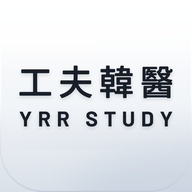
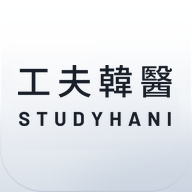
세로 로고를 工夫韓醫 STUDYHANI 로 : 로그인 화면 로고, 앱 아이콘, 카톡 미리보기 이미지 (가로 로고는 YRR STUDY 그대로)
Claude-Session: https://claude.ai/code/session_015uaKLahaYjwSoCrRpGm8MR

Changed region(s): [[0.2812, 0.3125, 0.9062, 0.5312], [0.0938, 0.5625, 0.9062, 0.6875], [0.0938, 0.3438, 0.2812, 0.5]]

diff --git a/js/views/auth.js b/js/views/auth.js
@@ -46,7 +46,7 @@ export function loginView() {
   watchFilled(btn, [email, pw]);
 
   const card = h('form', { class: 'auth-card', novalidate: true, onsubmit: submit },
-    h('img', { class: 'brand', src: 'icons/logo.png', alt: '工夫韓醫 YRR STUDY' }),
+    h('img', { class: 'brand', src: 'icons/logo.png', alt: '工夫韓醫 STUDYHANI' }),
     email,
     pw,
     err,
@@ -104,7 +104,7 @@ function signupCard(back) {
 
   const backBtn = h('button', { class: 'su-back', type: 'button', 'aria-label': '로그인으로', onclick: back }, icon('back'));
   const card = h('form', { class: 'auth-card su-card', novalidate: true, onsubmit: submit },
-    h('img', { class: 'brand sm', src: 'icons/logo.png', alt: '工夫韓醫 YRR STUDY' }),
+    h('img', { class: 'brand sm', src: 'icons/logo.png', alt: '工夫韓醫 STUDYHANI' }),
     h('h1', { class: 'auth-title' }, '새 계정 만들기'),
     name, sno, grade, id, pw1, pw2, hp, err, btn);
 
@@ -128,7 +128,7 @@ function signupCard(back) {
     if (error) { try { msg = (await error.context.json()).error; } catch { msg = '요청을 보내지 못했습니다. 잠시 후 다시 시도하세요.'; } }
     if (msg) { busy(btn, false); return fail(msg); }
     await doneCheck(() => card.replaceChildren(
-      h('img', { class: 'brand sm', src: 'icons/logo.png', alt: '工夫韓醫 YRR STUDY' }),
+      h('img', { class: 'brand sm', src: 'icons/logo.png', alt: '工夫韓醫 STUDYHANI' }),
       h('h1', { class: 'auth-title' }, '요청을 보냈습니다'),
       h('p', { class: 'su-done' }, `승인되면 ${id.value.trim()} 아이디로 로그인할 수 있습니다.`),
       h('button', { class: 'auth-link strong', type: 'button', onclick: back }, '로그인으로 돌아가기')));
@@ -190,7 +190,7 @@ export function firstView() {
   showGrade();
 
   const card = h('form', { class: 'auth-card', novalidate: true, onsubmit: submit },
-    h('img', { class: 'brand sm', src: 'icons/logo.png', alt: '工夫韓醫 YRR STUDY' }),
+    h('img', { class: 'brand sm', src: 'icons/logo.png', alt: '工夫韓醫 STUDYHANI' }),
     h('h1', { class: 'auth-title' }, '비밀번호 변경'),
     pw1,
     pw2,

diff --git a/index.html b/index.html
@@ -10,7 +10,7 @@
 <meta property="og:title" content="공부하니 By. KIKY">
 <meta property="og:description" content="원광한의대 학습 자료 아카이브">
 <meta property="og:url" content="https://kiky-wku.github.io/KMED-Archive/">
-<meta property="og:image" content="https://kiky-wku.github.io/KMED-Archive/icons/og.png?v=2">
+<meta property="og:image" content="https://kiky-wku.github.io/KMED-Archive/icons/og.png?v=3">
 <meta property="og:image:width" content="1200">
 <meta property="og:image:height" content="630">
 <meta name="twitter:card" content="summary_large_image">
